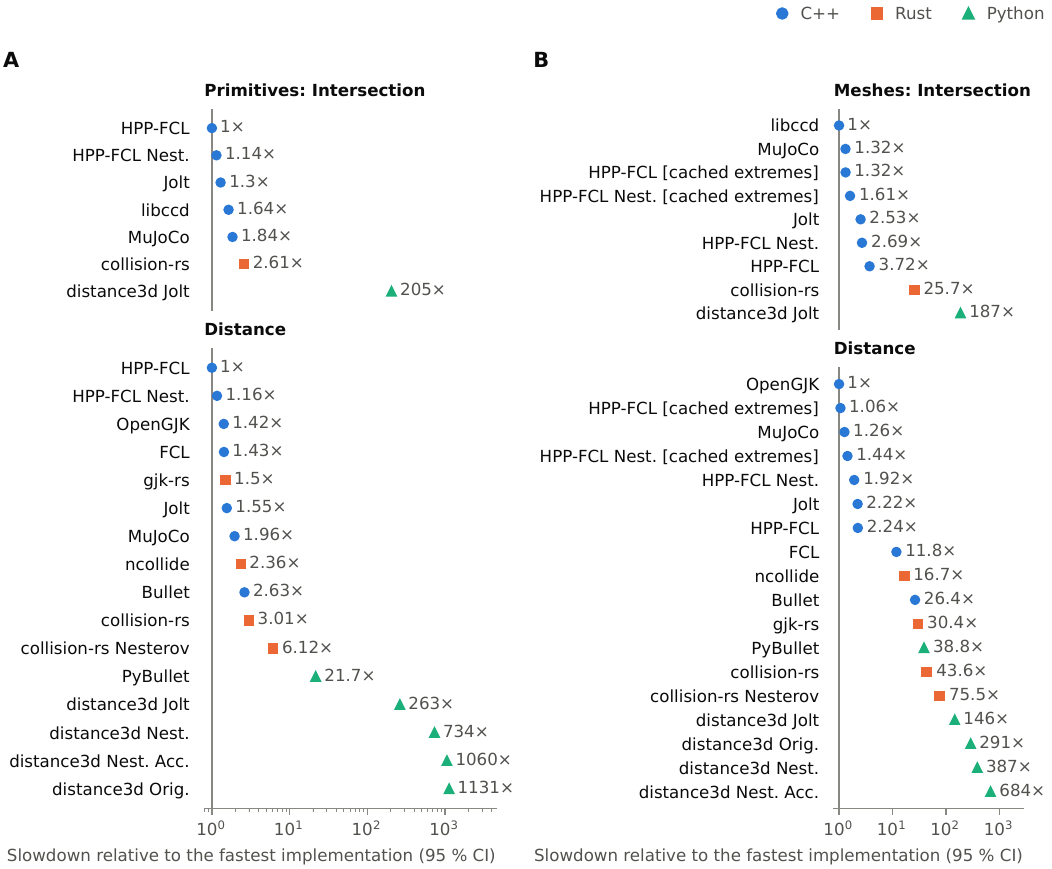
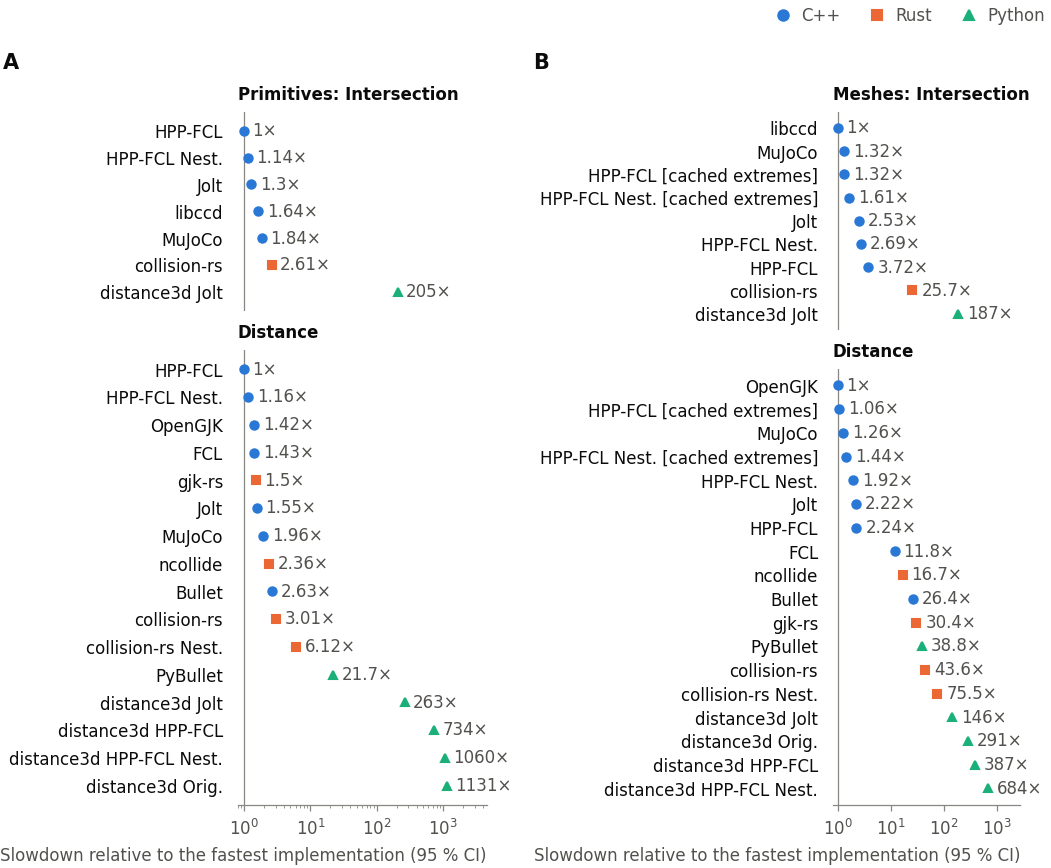
Rename implementations to less confusing names

diff --git a/compare-python/analyze/algo_metadata.py b/compare-python/analyze/algo_metadata.py
@@ -53,14 +53,14 @@ algo_metadata = {
     "openGJK distance adaptive support":            AlgoData("OpenGJK", AlgoData.Language.CPP, AlgoData.Category.DISTANCE),
 
     "ncollide_distance":            AlgoData("ncollide", AlgoData.Language.RUST, AlgoData.Category.DISTANCE),
-    "collision-rs_nasterov_gjk":    AlgoData("collision-rs Nesterov", AlgoData.Language.RUST, AlgoData.Category.DISTANCE),
+    "collision-rs_nasterov_gjk":    AlgoData("collision-rs Nest.", AlgoData.Language.RUST, AlgoData.Category.DISTANCE),
     "collision-rs_distance_gjk":    AlgoData("collision-rs", AlgoData.Language.RUST, AlgoData.Category.DISTANCE),
     "collision-rs_intersect_gjk":   AlgoData("collision-rs", AlgoData.Language.RUST, AlgoData.Category.INTERSECTION),
     "gjk-rs_nasterov_gjk":          AlgoData("gjk-rs", AlgoData.Language.RUST, AlgoData.Category.DISTANCE),
 
     "Pybullet":                                 AlgoData("PyBullet", AlgoData.Language.PYTHON, AlgoData.Category.DISTANCE),
-    "distance3d Nesterov (with acceleration)":  AlgoData("distance3d Nest. Acc.", AlgoData.Language.PYTHON, AlgoData.Category.DISTANCE),
-    "distance3d Nesterov":                      AlgoData("distance3d Nest.", AlgoData.Language.PYTHON, AlgoData.Category.DISTANCE),
+    "distance3d Nesterov (with acceleration)":  AlgoData("distance3d HPP-FCL Nest.", AlgoData.Language.PYTHON, AlgoData.Category.DISTANCE),
+    "distance3d Nesterov":                      AlgoData("distance3d HPP-FCL", AlgoData.Language.PYTHON, AlgoData.Category.DISTANCE),
     "distance3d Jolt (intersection)":           AlgoData("distance3d Jolt", AlgoData.Language.PYTHON, AlgoData.Category.INTERSECTION),
     "distance3d Jolt (distance)":               AlgoData("distance3d Jolt", AlgoData.Language.PYTHON, AlgoData.Category.DISTANCE),
     "distance3d Original":                      AlgoData("distance3d Orig.", AlgoData.Language.PYTHON, AlgoData.Category.DISTANCE),
